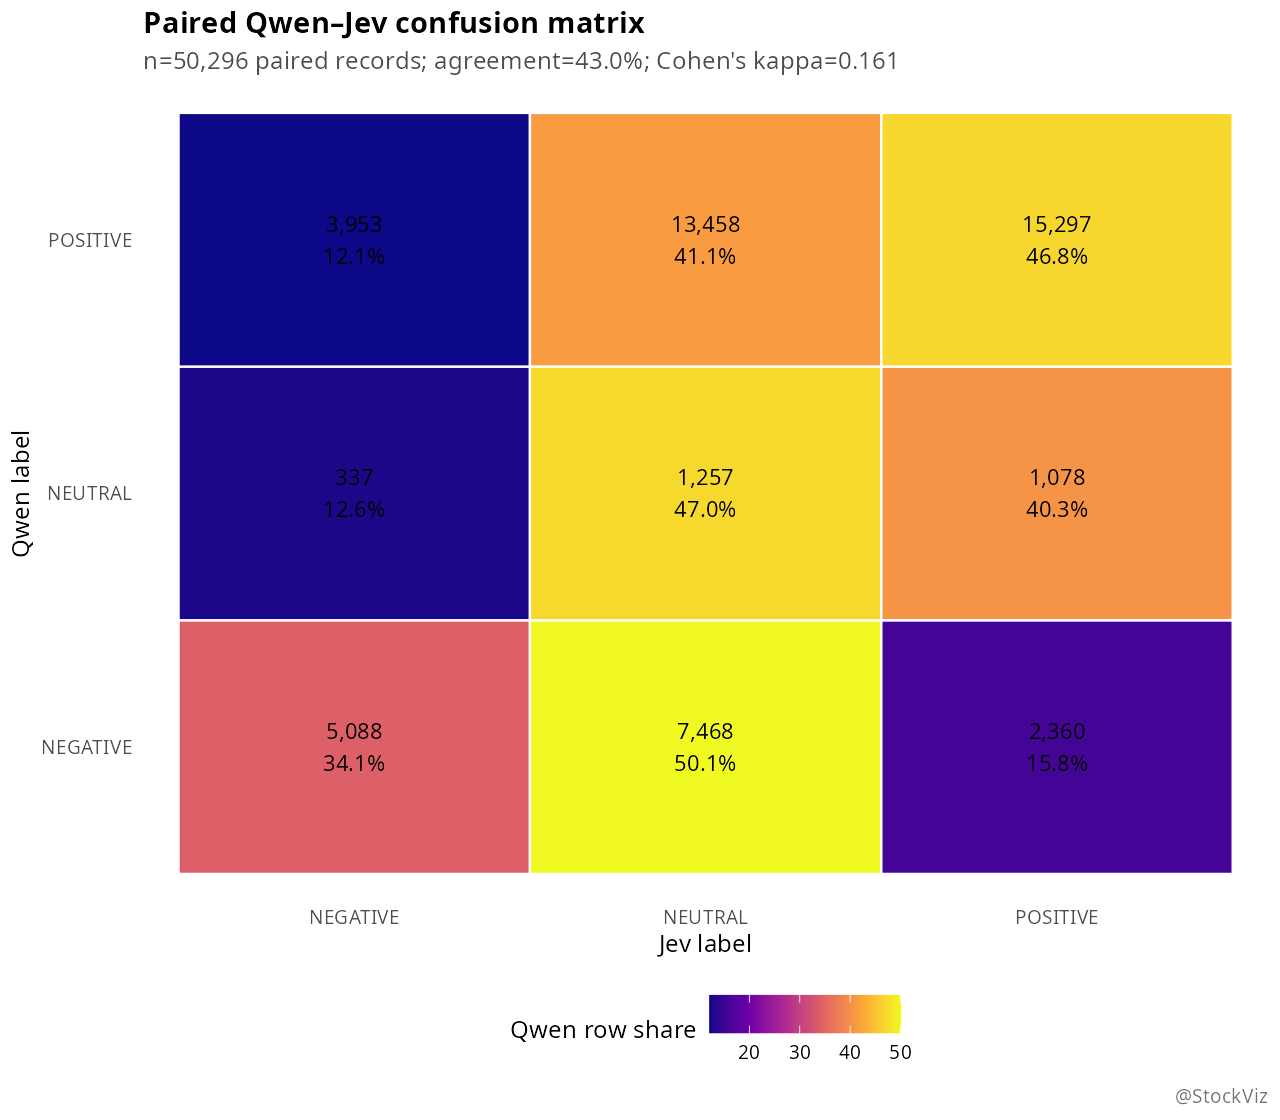
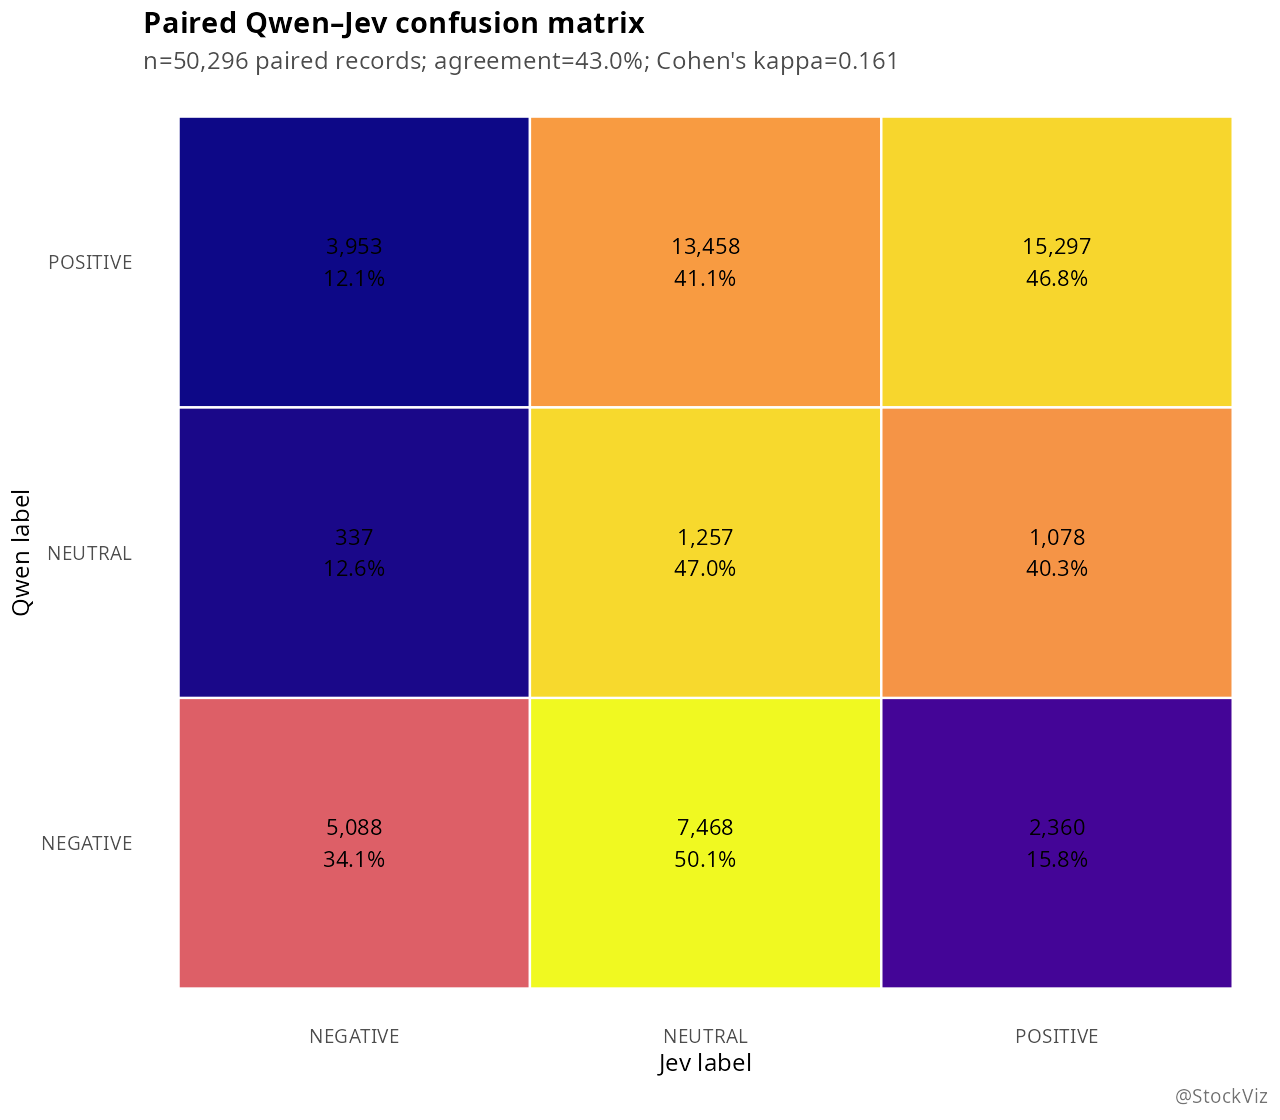
blog

diff --git a/media-sentiment/README.md b/media-sentiment/README.md
@@ -1,5 +1,7 @@
 # Media sentiment comparison: Qwen and Jev
 
+**Blog**: [Financial News Sentiment Analysis](https://stockviz.biz/2026/09/24/financial-news-sentiment-analysis-qwen-vs-jev/)
+
 This directory contains two independent sentiment-classification pipelines and an R analysis script that compares their outputs.
 
 The analysis is descriptive. It shows how the two classifiers label this media archive; it does not establish that sentiment causes market returns or that either classifier measures investor sentiment correctly.
@@ -510,3 +512,54 @@ Then report the paired confusion matrix, agreement rate, and disagreement rate. 
 - TypeSafe quick start and API format: https://docs.typesafe.ai/introduction/quickstart
 - TypeSafe Choice primitive: https://docs.typesafe.ai/primitives/choice
 - Nifty Indices historical total-return data: https://www.niftyindices.com/reports/historical-data
+
+## Appendix: interpreting chart 17
+
+`17_sentiment_event_study.png` is an event-study plot. It asks whether index returns were unusual around days with extreme model-assigned sentiment.
+
+### Layout
+
+- Rows are the models: Jev on top and Qwen below.
+- Columns are the three indices: NIFTY 50 TR, NIFTY MIDCAP 150 TR, and NIFTY SMALLCAP 250 TR.
+- The x-axis is trading days relative to the event. `-5` is five trading days before the event, `0` is the event day, and `10` is ten trading days afterward.
+- The y-axis is average cumulative index return relative to the close immediately before the event.
+- The lines represent high-positive and high-negative sentiment events.
+- The shaded regions are approximate 95% confidence intervals around the average path.
+
+### Event definition
+
+Events are defined separately for each model:
+
+```text
+High positive event = daily positive sentiment share in that model's top decile
+High negative event = daily negative sentiment share in that model's top decile
+```
+
+The thresholds are model-specific. A Qwen event and a Jev event therefore do not necessarily represent the same sentiment percentage.
+
+For each event, the script requires five valid trading days before the event and ten valid trading days afterward. The return path is normalized to zero at relative day `-1`. The value at day `0` is the event-day return, while the value at day `10` is the cumulative return from the pre-event baseline through ten trading days after the event.
+
+### Reading the current result
+
+Both high-positive and high-negative events are followed by modestly positive average returns across the displayed indices. At relative day `10`, the average cumulative returns are approximately:
+
+- Jev high-positive events: 0.7% to 0.9%.
+- Jev high-negative events: 0.8% to 1.0%.
+- Qwen high-positive events: 0.9% to 1.1%.
+- Qwen high-negative events: 0.8% to 1.0%.
+
+High-negative sentiment days do not show a clear subsequent market decline. The positive and negative event curves remain fairly close, so the chart does not show strong separation between the two event types.
+
+The appropriate conclusion is that chart 17 does not establish a reliable relationship between extreme media sentiment and subsequent index direction. The positive post-event paths may reflect the general upward drift of the indices, event selection, source composition, or sampling noise.
+
+### Limitations
+
+- Events are selected in-sample.
+- The analysis uses classifier labels rather than human-validated sentiment.
+- Events may overlap.
+- Publication timestamps are not used; only publication dates are used.
+- The study does not control for market regime, volatility, sector exposure, or article volume.
+- It is not a trading strategy.
+- The confidence bands do not correct for multiple event definitions, indices, or horizons.
+
+Chart 17 is therefore a visual diagnostic. It checks whether extreme sentiment days are followed by visibly unusual market paths. In this archive, it shows no clear or robust separation.
